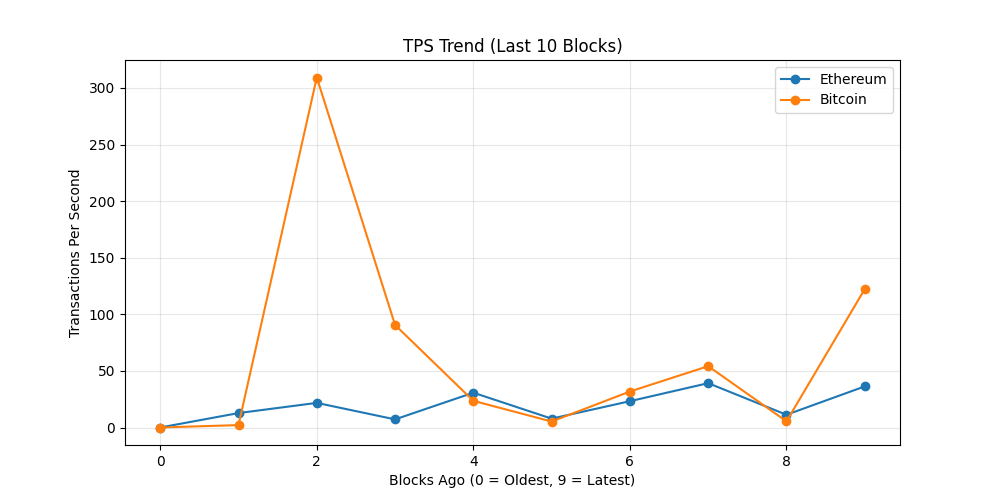
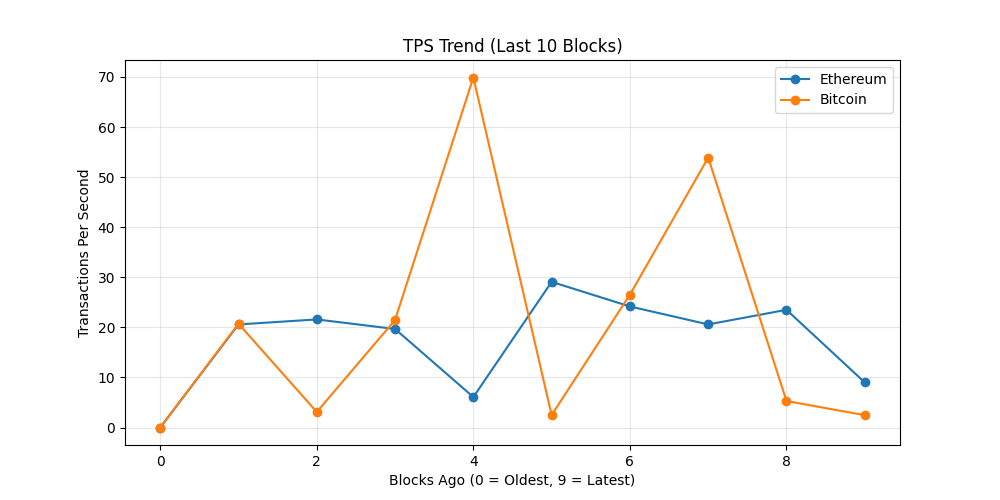
chore: update on-chain dashboard

diff --git a/README.md b/README.md
@@ -19,7 +19,7 @@ The README itself acts as the dashboard and is regenerated automatically on a 6 
 demonstrating a production-style, infrastructure-focused observability workflow rather
 than a traditional UI-driven approach.
 
-_Last updated: 2026-04-13 08:22 UTC_
+_Last updated: 2026-04-13 14:06 UTC_
 
 ## API Usage (GetBlock.io)
 - Calls used: **24**
@@ -27,8 +27,8 @@ _Last updated: 2026-04-13 08:22 UTC_
 ## Network Metrics
 | Chain | Block Height | TX Count | TPS (10 blk avg) | Block Util | Avg Fee |
 |------|-------------|----------|------------------|------------|---------|
-| Ethereum | 24869624 | 436 | 36.33 | 52.28% | 0.1 Gwei |
-| Bitcoin | 944867 | 7093 | 122.29 | 99.79% | N/A |
+| Ethereum | 24871341 | 108 | 9.0 | 21.05% | 0.2 Gwei |
+| Bitcoin | 944901 | 3681 | 2.46 | 99.79% | N/A |
 
 ## Visuals
 ### Transactions Trend
@@ -43,7 +43,11 @@ _Last updated: 2026-04-13 08:22 UTC_
 ## Whale Alerts (latest block)
 - Transaction hashes are truncated for readability.
 - Full hashes are available in `dashboards/metrics.json`
-- Bitcoin | 138.81 BTC | `623796da21df…`
+- Bitcoin | 206.52 BTC | `fa4a7f909939…`
+- Bitcoin | 200.0 BTC | `b330b36c69c4…`
+- Bitcoin | 931.41 BTC | `078e45ad9100…`
+- Bitcoin | 208.89 BTC | `69ca2fb10b06…`
+- Bitcoin | 367.97 BTC | `e3eeeabbb831…`
 
 ## Run locally
 
